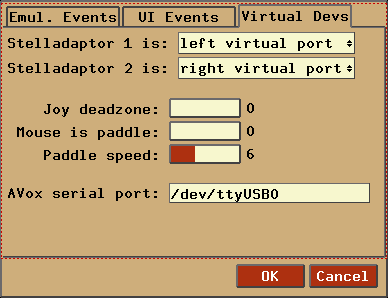
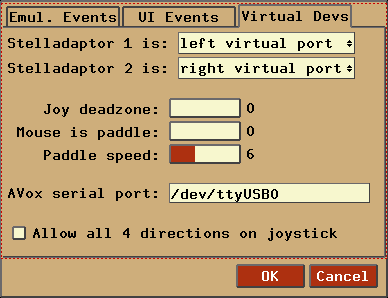
Added '-joyallow4' commandline argument and associate UI item in InputDialog/Virtual Devs to allow all 4 directions to be pressed simultaneously on a virtual joystick.  This support was always present for 'Bumper Bash', but it can now be enabled/disabled for any ROM. Note that the setting is ignored
Fixed debugger rewind issue from last commit; the rewind list wasn't
being properly reset when entering the debugger or selecting a new ROM.

diff --git a/docs/index.html b/docs/index.html
@@ -789,6 +789,13 @@
 		</tr>
 
 		<tr>
+			<td><pre>-joyallow4 &lt;1|0&gt;</pre></td>
+			<td>Allow all 4 directions on a joystick to be pressed
+				simultaneously.  Bumper Bash ignores this setting,
+				and always allows all 4 directions.</td>
+		</tr>
+
+		<tr>
 			<td><pre>-pspeed &lt;number&gt;</pre></td>
 			<td>Speed for digital emulation of paddles (1-15).</td>
 		</tr>
@@ -2042,33 +2049,26 @@
 	<img src="graphics/eventmapping.png">
 	<img src="graphics/eventmapping_remap.png">
 
-	<p>Virtual devices can be configured under the 'Virtual Devs' tab, shown below:<br><br>
-	<img src="graphics/eventmapping_virtualdevs.png"></p>
 
-	<p>Stelladaptor devices can be configured to either the left or right virtual
-	ports.  See <b>Section 11 - <a href="#Adaptor">Stelladaptor Support</a></b>
-	for further information.</p>
 
-	<p>Joystick deadzone area for analog joysticks can be set here.  The deadzone
-	can be adjusted in an interval from 0 - 29, which internally is converted to
-	the range 3200 - 32200 using the formula '3200 + DEADZONE * 1000'.</p>
-
-	<p>Paddle settings are also configured here.  The mouse can emulate either paddle
-	0, 1, 2, or 3.  Note that some paddle games don't default to paddle 0.  In those
-	cases, the ROM properties will automatically set the mouse to emulate the paddle
-	used by Player 0.  So, for example, a ROM that defaults to paddle 1 (Demons to Diamonds)
-	will set 'Mouse is paddle' to 1, and a ROM that defaults to paddle 3 (Tac-Scan) will
-	set 'Mouse is paddle' to 3.</p>
-
-	<p>Paddle speed is used when emulating a paddle using a digital device
-	(keyboard, digital joystick, etc).  Because of the on/off nature of digital
-	devices, there are no smooth analog values as would be present on a real
-	paddle.  When using digital devices, the paddle is moved a certain amount
-	each frame.  This speed setting specifies how much movement will occur.</p>
-
-	<p>The serial port to which a real AtariVox is connected can be set here.
-	See <b>Section 12 - <a href="#AtariVox">AtariVox/SaveKey Support</a></b> for
-	further information.</p>
+	<p>Virtual devices can be configured under the 'Virtual Devs' tab, shown below:</p>
+	<table border="5" cellpadding="2" frame="box" rules="none">
+		<tr>
+			<td><img src="graphics/eventmapping_virtualdevs.png"></td>
+			<td>&nbsp;&nbsp;&nbsp;&nbsp;</td>
+			<td valign="top">
+				<table border="1" cellpadding="4">
+					<tr><th>Item</th><th>Brief description</th><th>For more information,<br>see Commandline</th></tr>
+					<tr><td>Stelladaptor X is</td><td>Specifies which virtual port each Stelladaptor uses (See <b>Section 11 - <a href="#Adaptor">Stelladaptor Support</a></b>)</td><td>-sa1 &amp; -sa2</td></tr>
+					<tr><td>Joy deadzone</td><td>Joystick deadzone area for analog joysticks</td><td>-joydeadzone</td></tr>
+					<tr><td>Mouse is paddle</td><td>The mouse can emulate either paddle	0, 1, 2, or 3.</td><td>&nbsp;</td></tr>
+					<tr><td>Paddle speed</td><td>Speed used when emulating a paddle using a digital device</td><td>-pspeed</td></tr>
+					<tr><td>AVox serial port</td><td>Described in further detail in <b>Section 12 - <a href="#AtariVox">AtariVox/SaveKey Support</a></b> </td><td>-avoxport</td></tr>
+					<tr><td>Allow all 4 ...</td><td>Allow all 4 joystick directions to be pressed simultaneously</td><td>-joyallow4</td></tr>
+				</table>
+			</td>
+		</tr>
+	</table>
 
 
 <!-- /////////////////////////////////////////////////////////////////////////  -->
@@ -2651,6 +2651,7 @@ Ms Pac-Man (Stella extended codes):
 				<tr><td>E7 </td><td>16K M-network </td></tr>
 				<tr><td>EF </td><td>64K Homestar Runner </td></tr>
 				<tr><td>EFSC </td><td>64K Homestar Runner + ram</td></tr>
+				<tr><td>F0 </td><td>Dynacom Megaboy </td></tr>
 				<tr><td>F4 </td><td>32K Atari </td></tr>
 				<tr><td>F4SC </td><td>32K Atari + ram </td></tr>
 				<tr><td>F6 </td><td>16K Atari </td></tr>
@@ -2659,7 +2660,6 @@ Ms Pac-Man (Stella extended codes):
 				<tr><td>F8SC </td><td>8K Atari + ram </td></tr>
 				<tr><td>FA </td><td>CBS RAM Plus </td></tr>
 				<tr><td>FE </td><td>8K Decathlon </td></tr>
-				<tr><td>F0 </td><td>Dynacom Megaboy </td></tr>
 				<tr><td>MC &#185;&#178;</td><td>C. Wilkson Megacart </td></tr>
 				<tr><td>SB </td><td>128-256k SUPERbanking </td></tr>
 				<tr><td>UA </td><td>8K UA Ltd. </td></tr>
@@ -3129,7 +3129,7 @@ Ms Pac-Man (Stella extended codes):
 			<td VALIGN="TOP">Robert&nbsp;Tuccitto</td>
 			<td>Provided valuable bugtesting and feedback which finally helped in fixing
 			a long-standing lockup which occurred after Stella has been running for
-			71 muinutes.</td>
+			71 minutes.</td>
 		</tr>
 
 		<tr>
